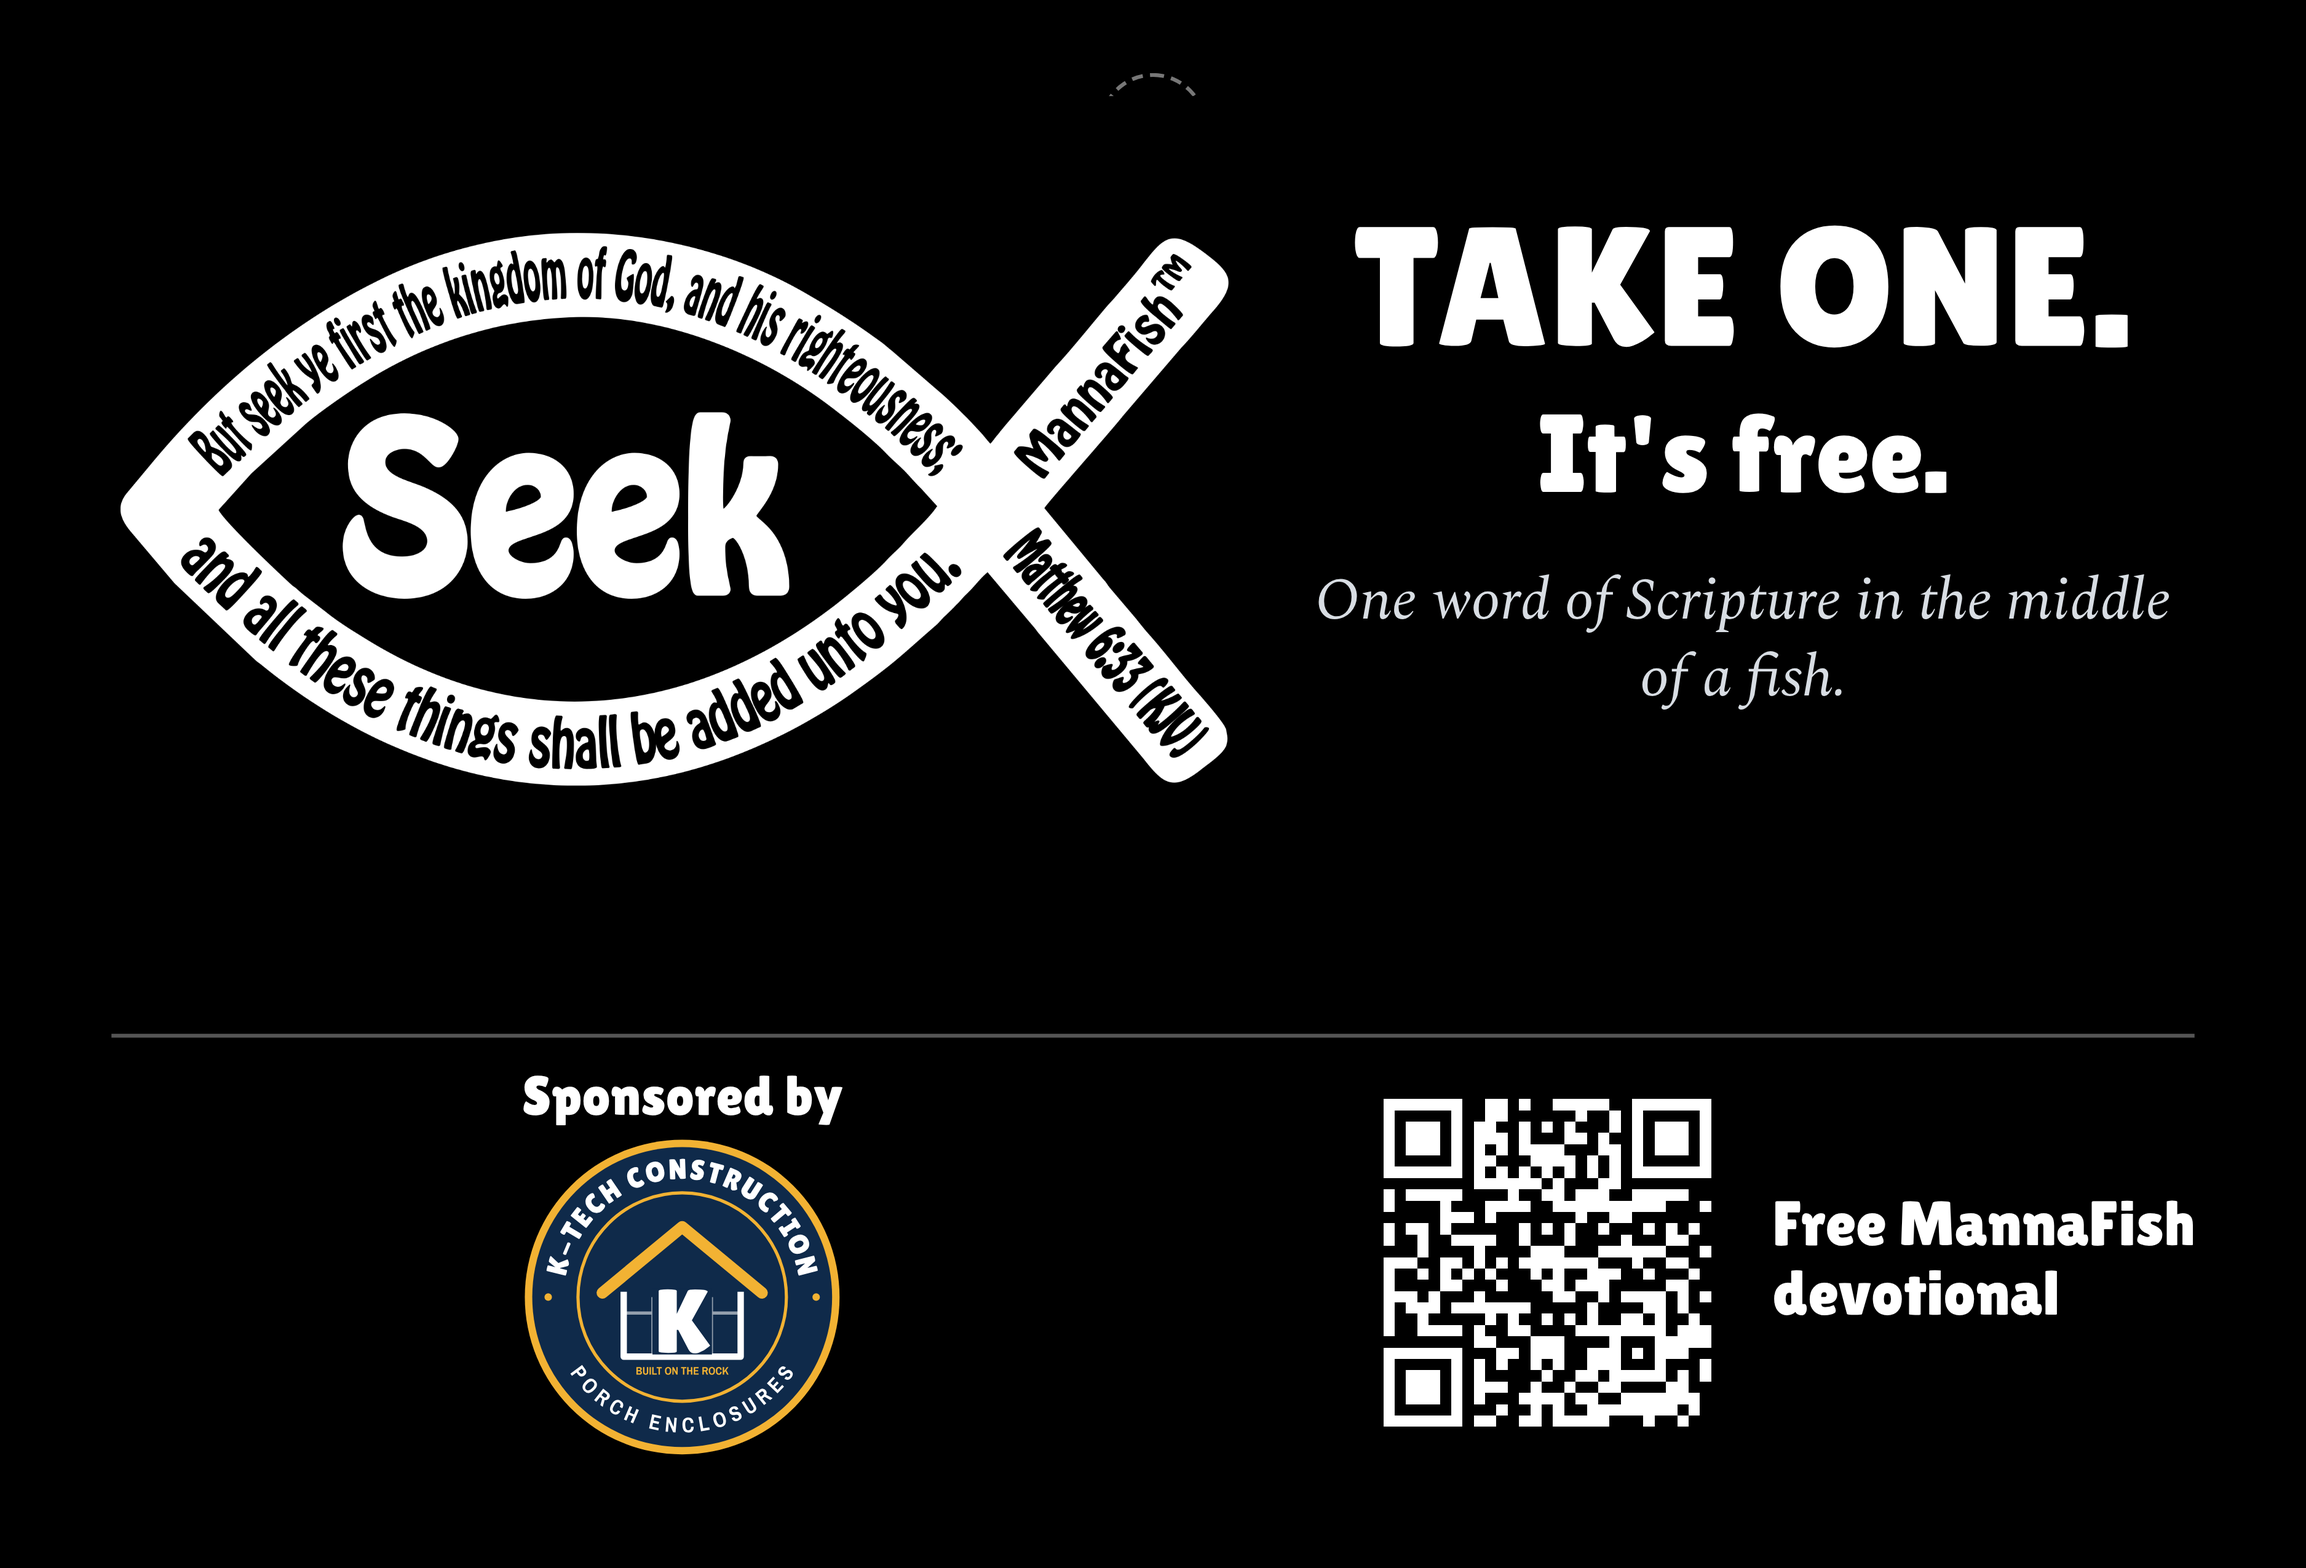
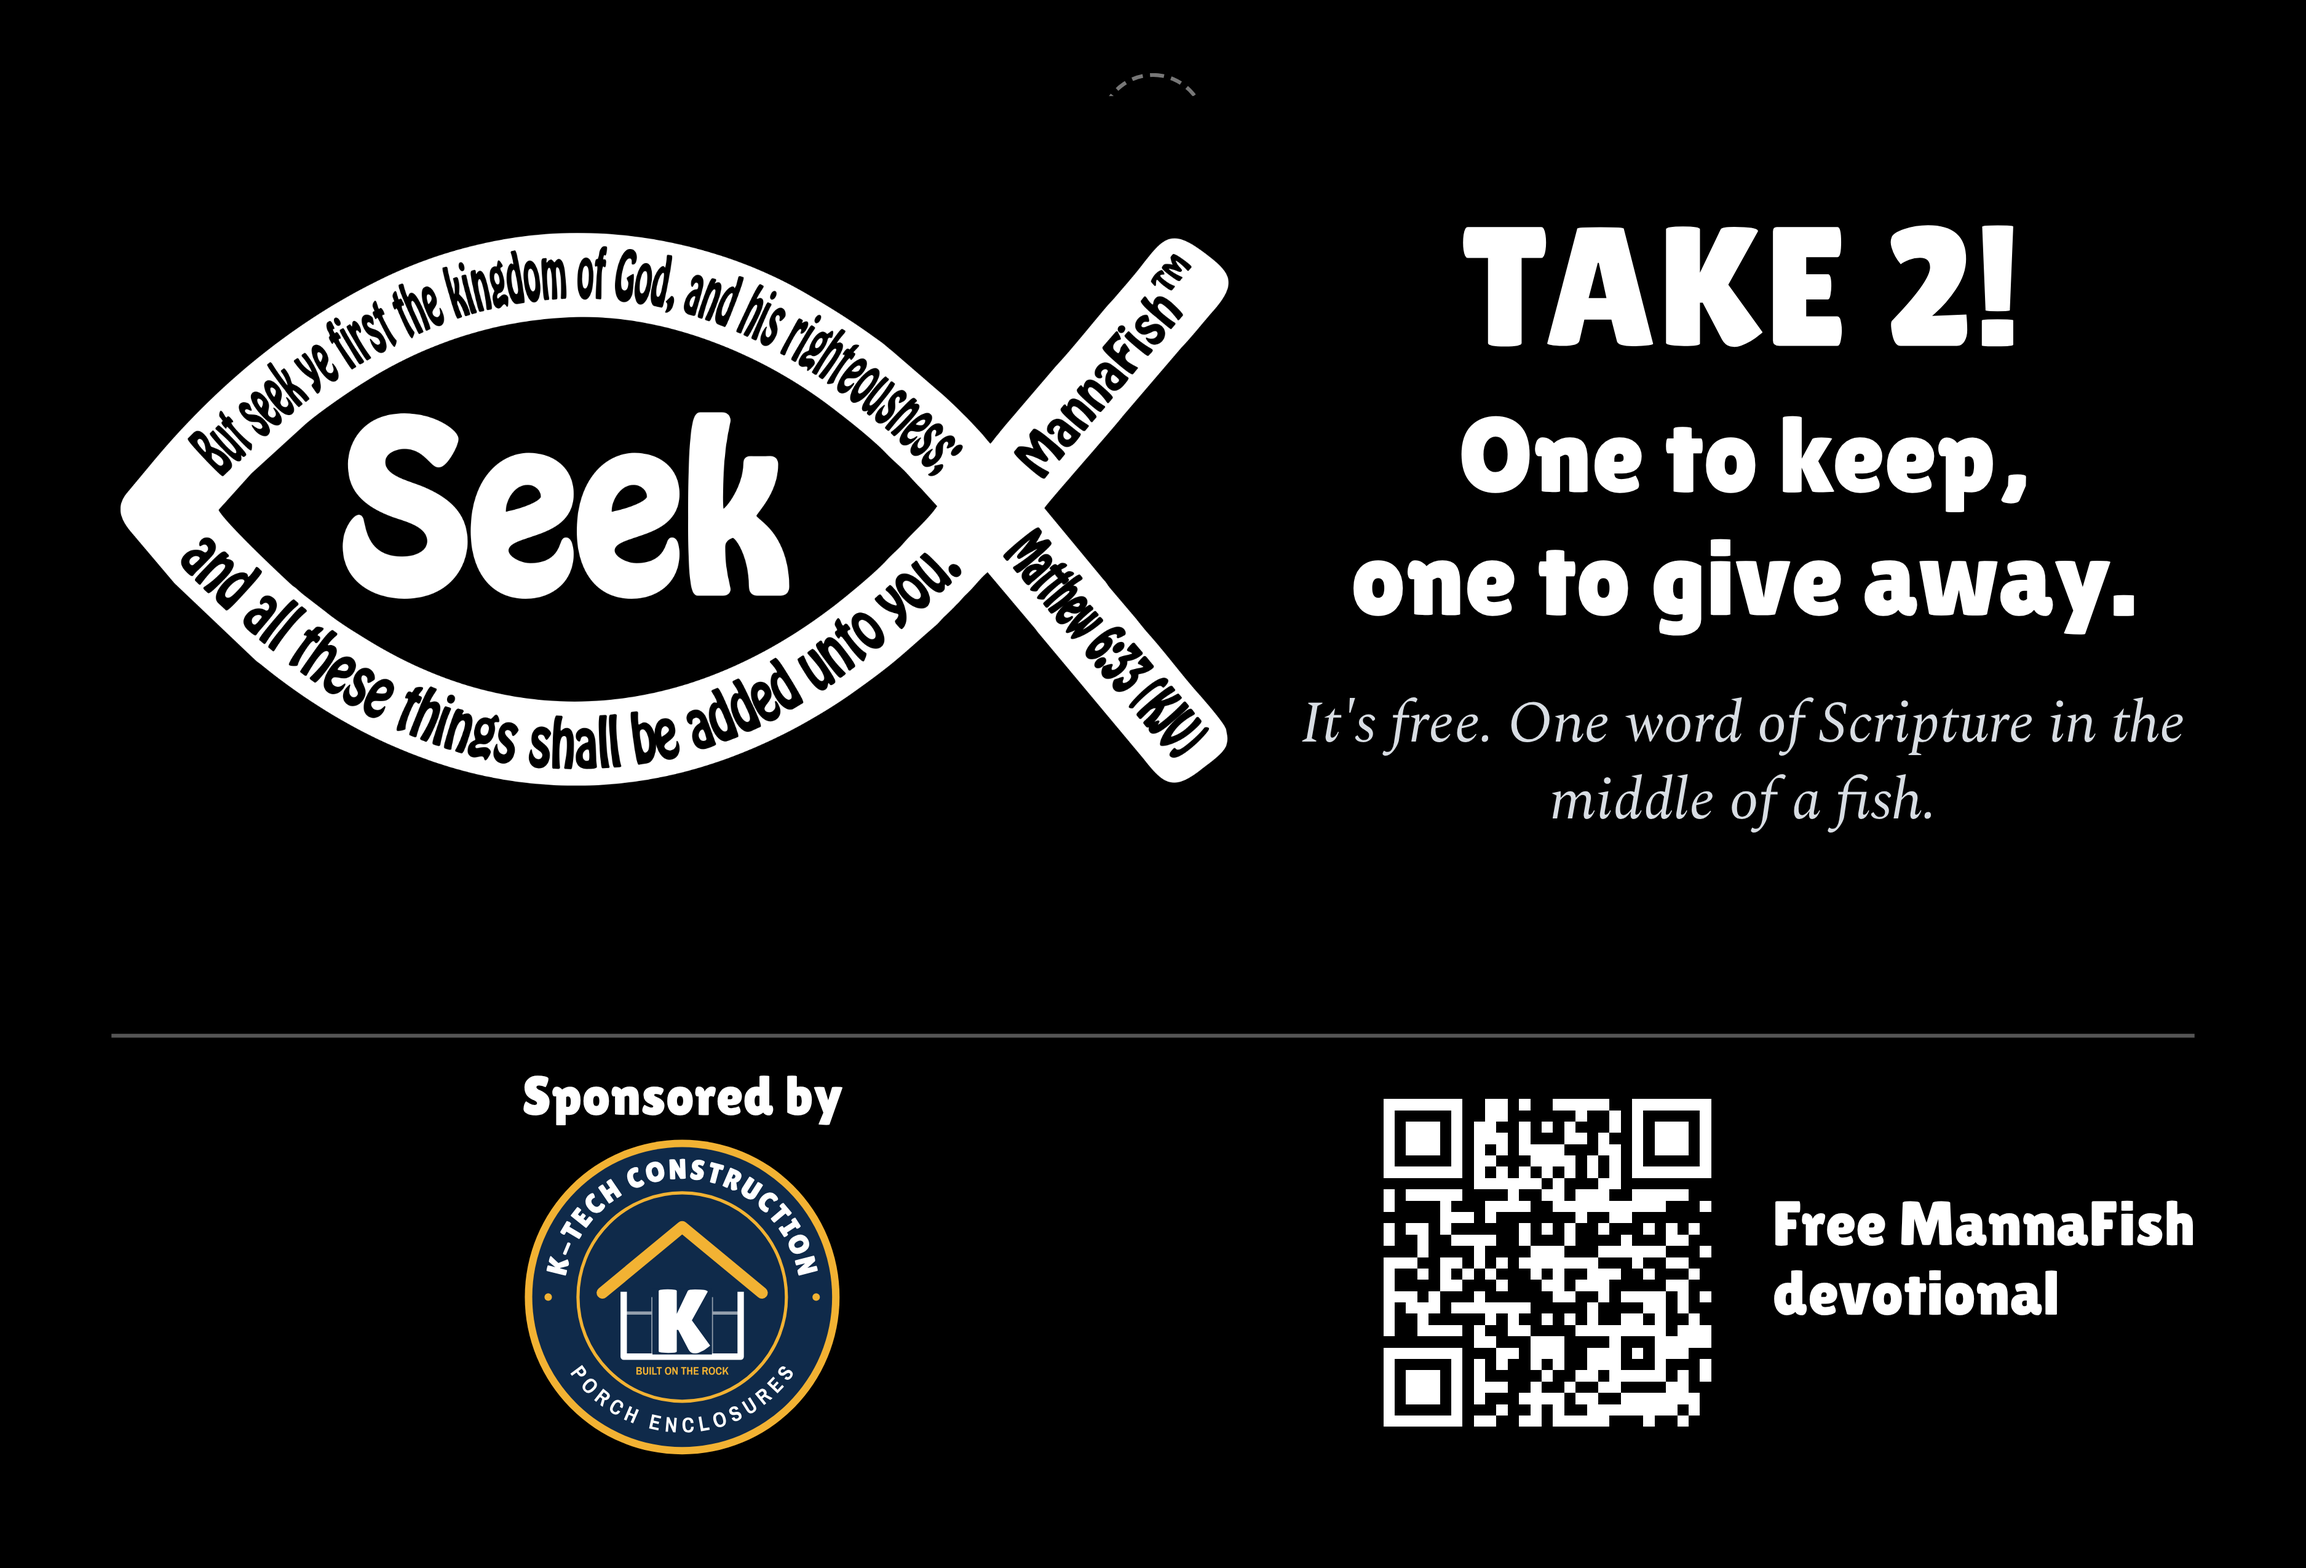
Header sign: Take 2, one to keep, one to give away
Claude-Session: https://claude.ai/code/session_012sgkdGHz3nphrr6PkVVVwg

Changed region(s): [[0.5616, 0.2478, 0.936, 0.5267], [0.5928, 0.1239, 0.936, 0.2478], [0.5616, 0.4337, 0.624, 0.4647]]

diff --git a/docs/HUB-PACKAGE.md b/docs/HUB-PACKAGE.md
@@ -33,7 +33,7 @@ Caution before launching it: a prize drawing can fall under state sweepstakes ru
 3. Reminder at 2 days; call at 2; mail at 5; after 14 days "no answer", the sponsor is told and can give the decals out or choose another place.
 4. Ken mails a handwritten-style note, two sample decals and the vision card.
 5. The sponsor's price covers basket, sign, box and postage; the place pays nothing.
-6. Header sign: the 6 x 4 in card (`node tools/print/header.mjs <run>`; sample `print/out/headers/R0020-header-counted.pdf`).
+6. Header sign ("TAKE 2! One to keep, one to give away."): the 6 x 4 in card (`node tools/print/header.mjs <run>`; sample `print/out/headers/R0020-header-counted.pdf`).
 7. Monthly basket: chosen by Ken, no random drawing.
 8. Price: Ken does not know, so these are my guesses to check against real quotes. Not on the public site.
 
